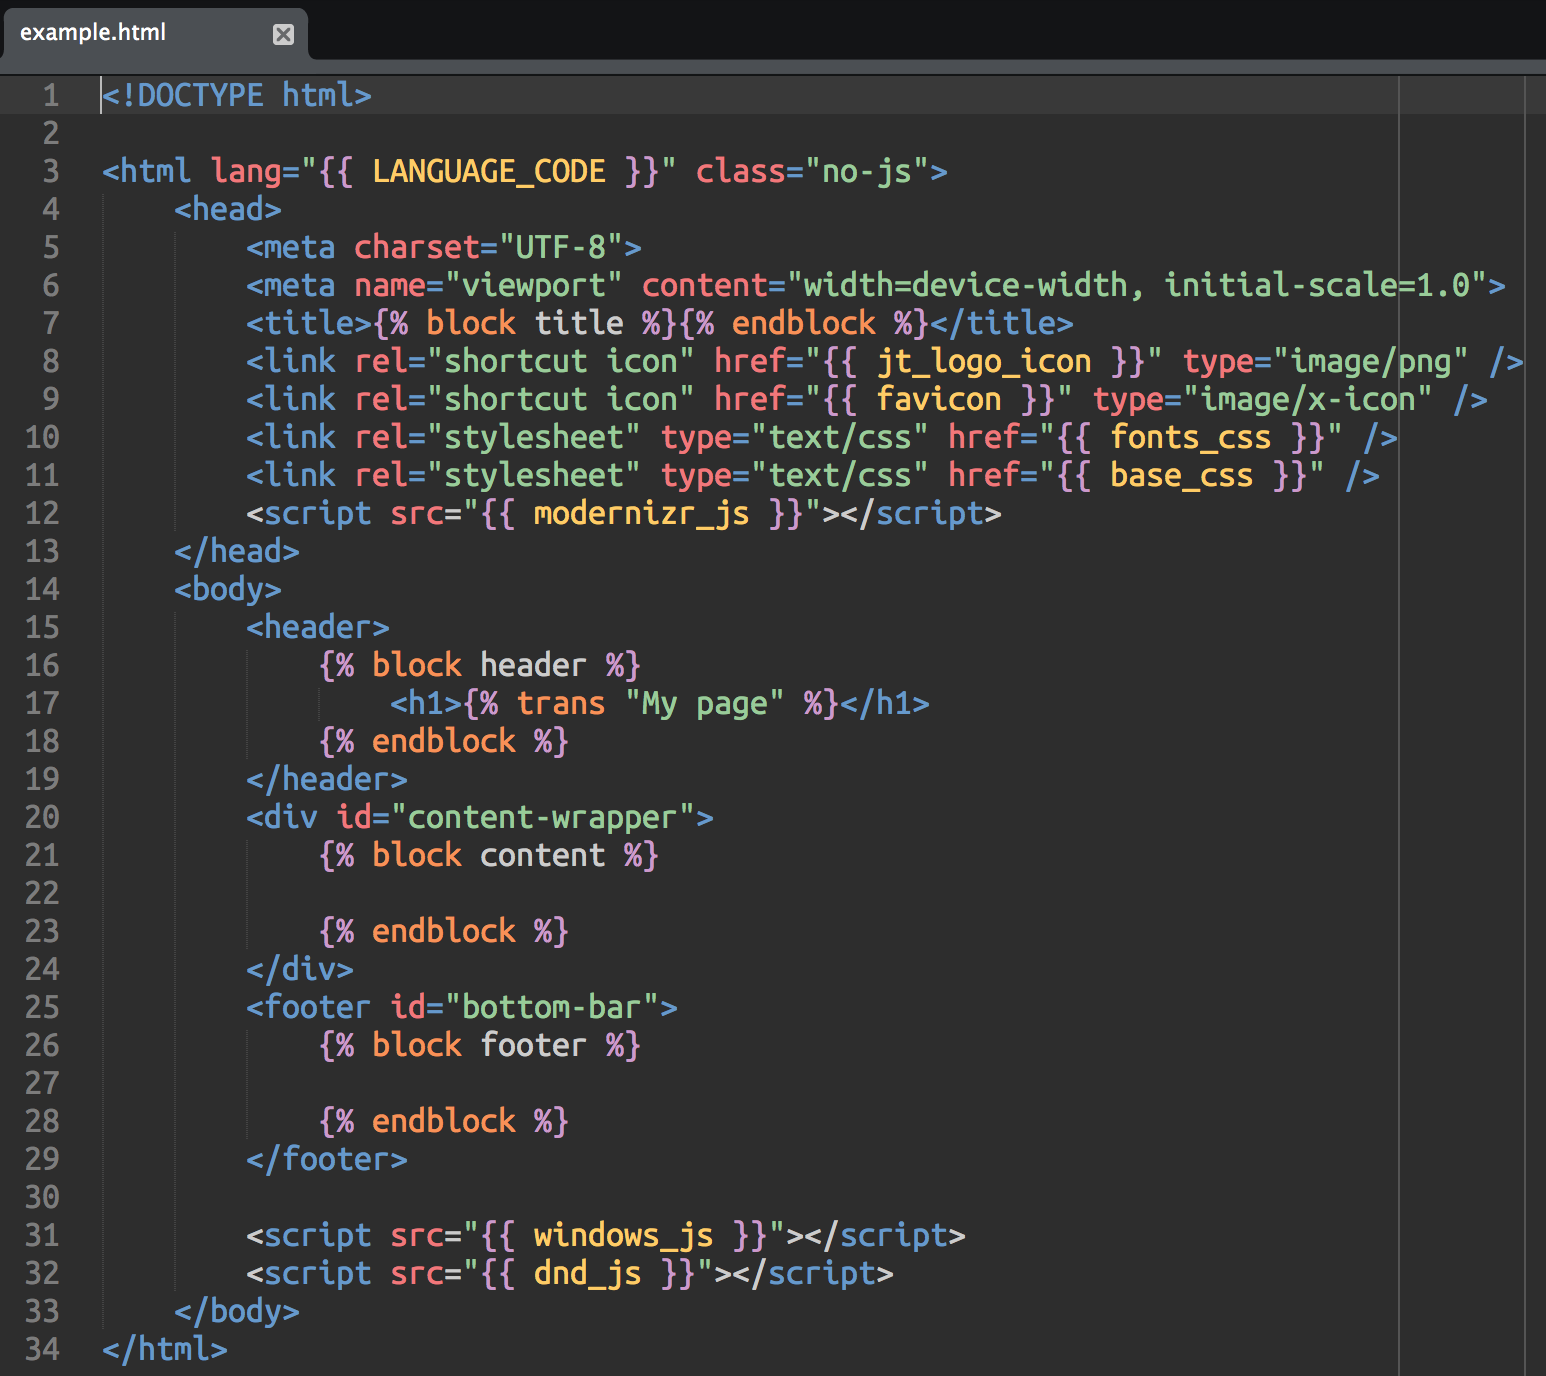
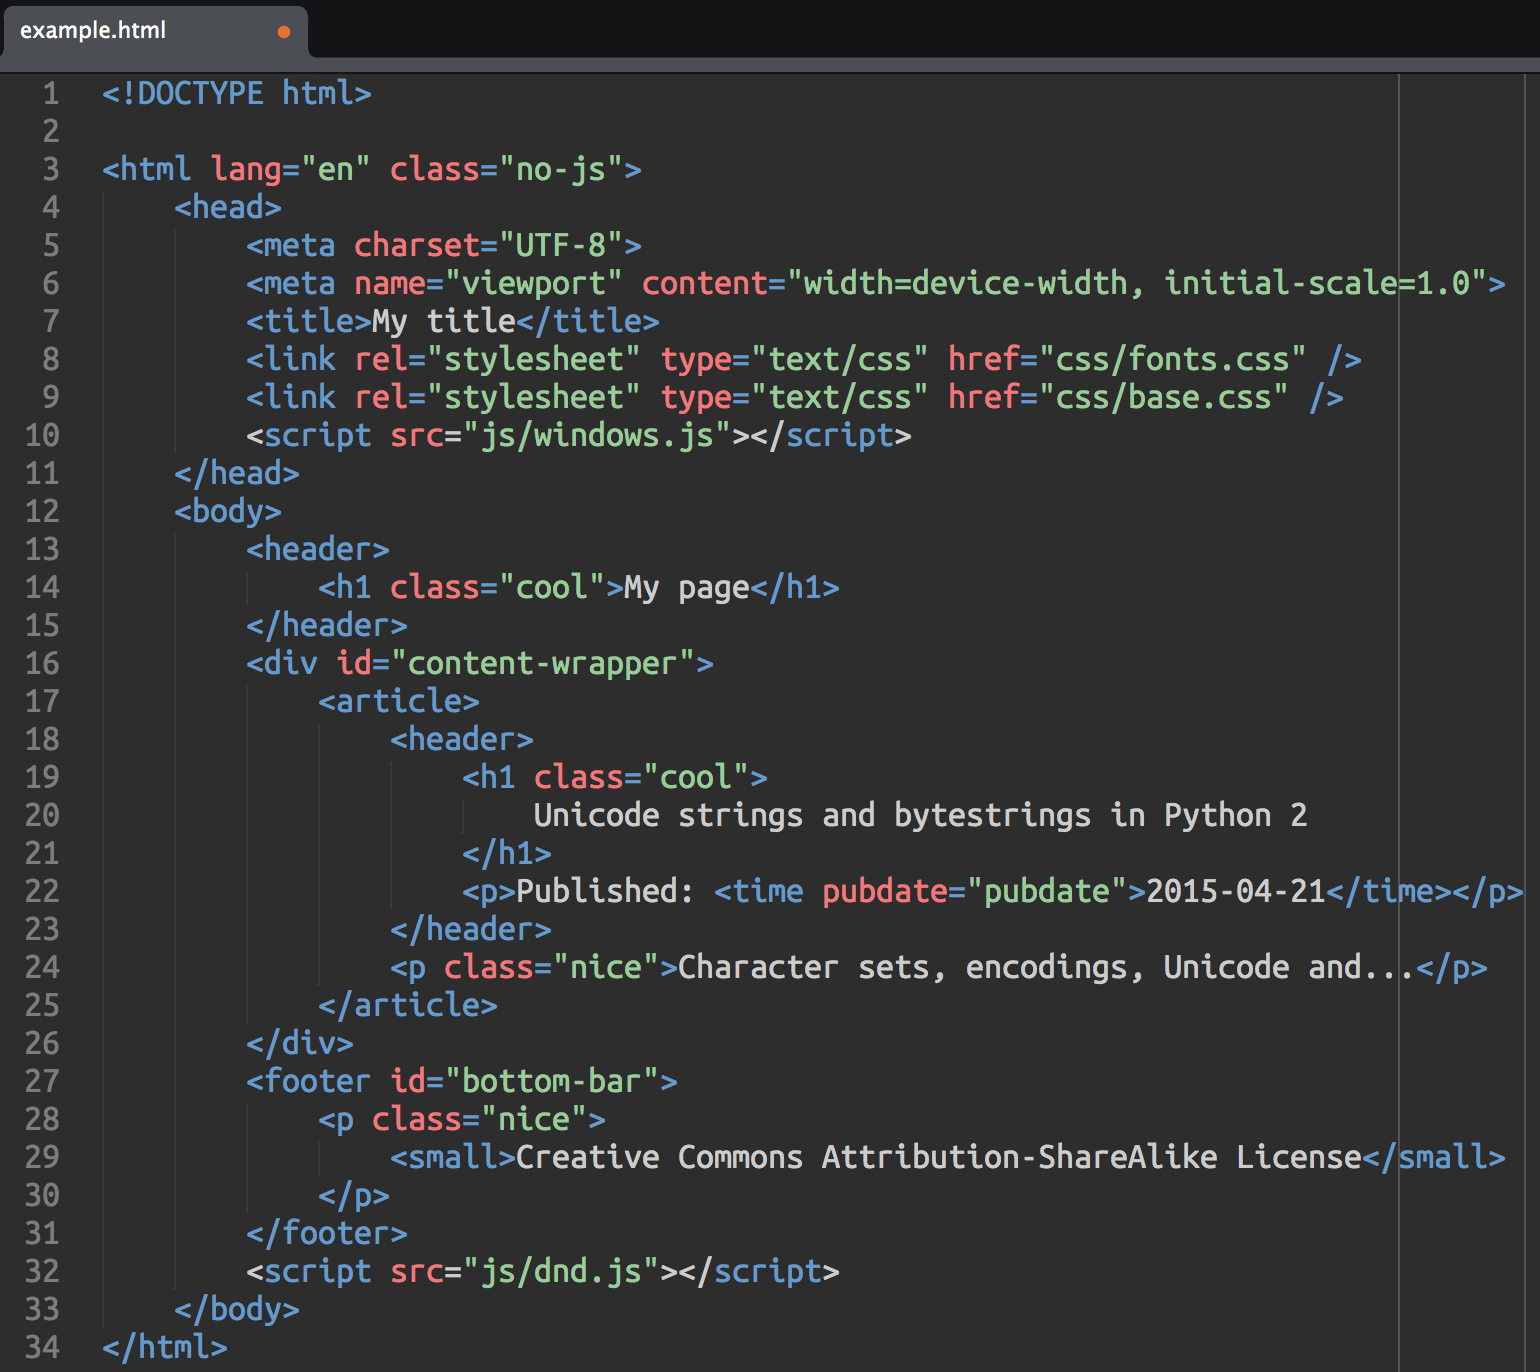
New HTML code example

Changed region(s): [[0.0, 0.0, 1.0, 1.0], [0.4675, 0.1224, 0.5922, 0.1531], [0.0, 0.8878, 0.0312, 0.9796]]

diff --git a/examples/code/example.html b/examples/code/example.html
@@ -1,34 +1,34 @@
 <!DOCTYPE html>
 
-<html lang="{{ LANGUAGE_CODE }}" class="no-js">
+<html lang="en" class="no-js">
     <head>
         <meta charset="UTF-8">
         <meta name="viewport" content="width=device-width, initial-scale=1.0">
-        <title>{% block title %}{% endblock %}</title>
-        <link rel="shortcut icon" href="{{ jt_logo_icon }}" type="image/png" />
-        <link rel="shortcut icon" href="{{ favicon }}" type="image/x-icon" />
-        <link rel="stylesheet" type="text/css" href="{{ fonts_css }}" />
-        <link rel="stylesheet" type="text/css" href="{{ base_css }}" />
-        <script src="{{ modernizr_js }}"></script>
+        <title>My title</title>
+        <link rel="stylesheet" type="text/css" href="css/fonts.css" />
+        <link rel="stylesheet" type="text/css" href="css/base.css" />
+        <script src="js/windows.js"></script>
     </head>
     <body>
         <header>
-            {% block header %}
-                <h1>{% trans "My page" %}</h1>
-            {% endblock %}
+            <h1 class="cool">My page</h1>
         </header>
         <div id="content-wrapper">
-            {% block content %}
-
-            {% endblock %}
+            <article>
+                <header>
+                    <h1 class="cool">
+                        Unicode strings and bytestrings in Python 2
+                    </h1>
+                    <p>Published: <time pubdate="pubdate">2015-04-21</time></p>
+                </header>
+                <p class="nice">Character sets, encodings, Unicode and...</p>
+            </article>
         </div>
         <footer id="bottom-bar">
-            {% block footer %}
-
-            {% endblock %}
+            <p class="nice">
+                <small>Creative Commons Attribution-ShareAlike License</small>
+            </p>
         </footer>
-
-        <script src="{{ windows_js }}"></script>
-        <script src="{{ dnd_js }}"></script>
+        <script src="js/dnd.js"></script>
     </body>
 </html>
